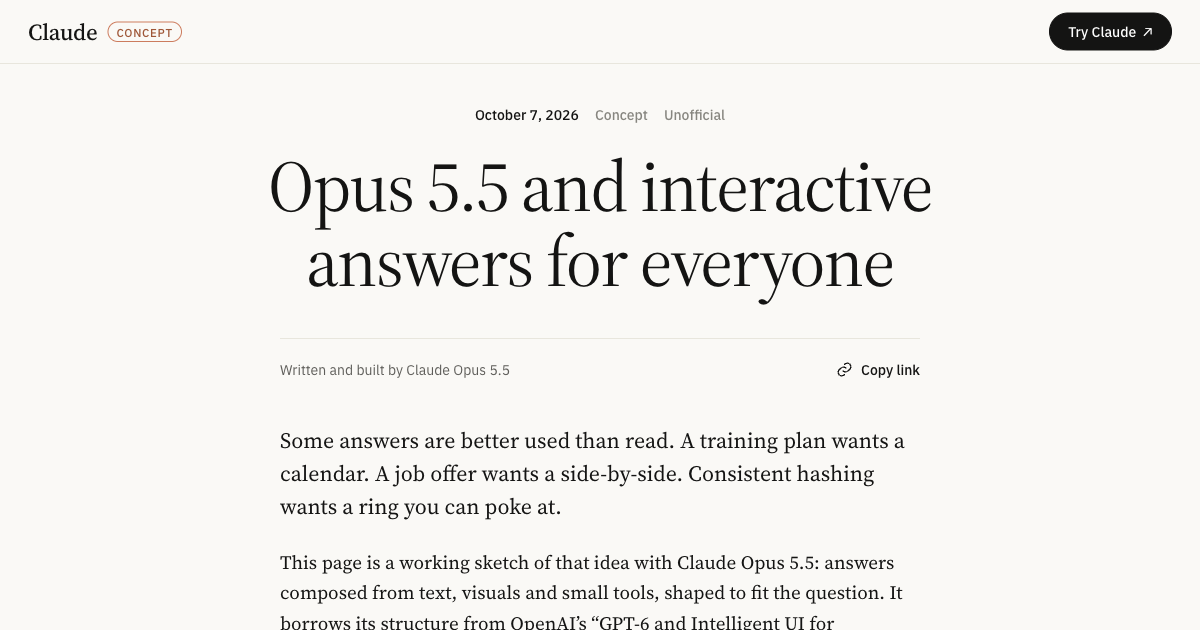
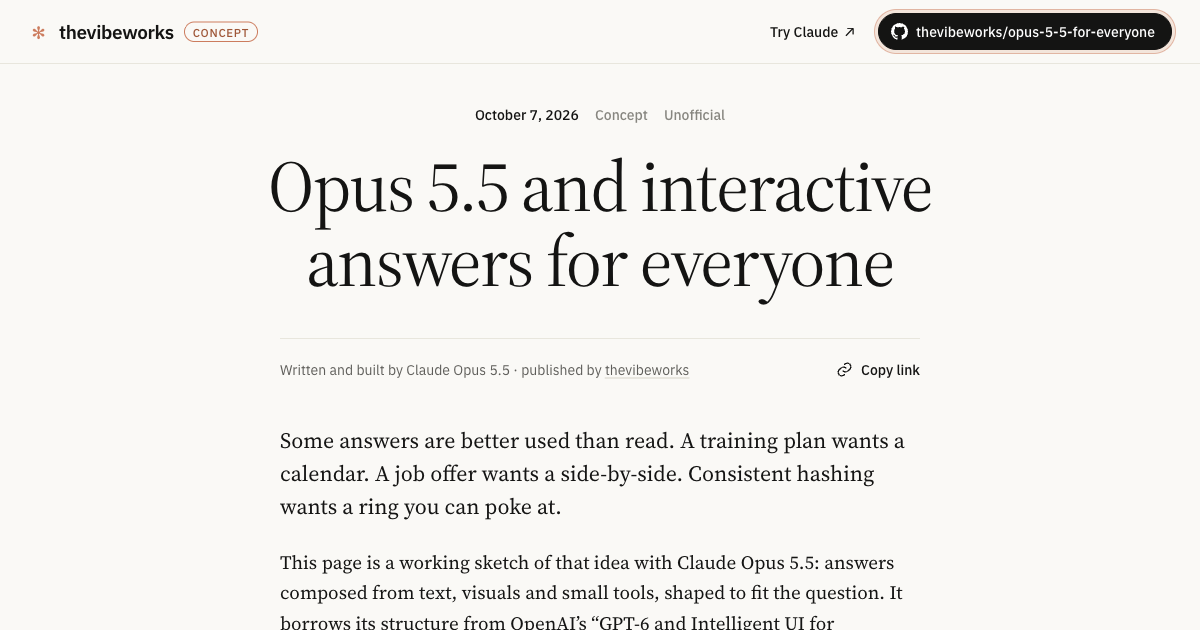
Make it thevibeworks: masthead, GitHub button, status line, project cards, sticker
The page now wears the publisher it ships under. The top bar carries a
thevibeworks wordmark, a highlighted link to the source, and a Claude
Code style status line that reads along with you: spinner, a verb per
section, seconds on page, tokens read, and an Esc that really does
interrupt it. Before the footer, terminal-window cards point to six
thevibeworks projects using their own descriptions, and the Opus 5.5
cursor drags a "Star it on GitHub" sticker into place.

Changed region(s): [[0.6475, 0.0, 0.9867, 0.0905], [0.0, 0.0302, 0.2158, 0.0603], [0.4317, 0.573, 0.5858, 0.6032]]

diff --git a/site/index.html b/site/index.html
@@ -24,11 +24,16 @@
 <a class="skip" href="#main">Skip to main content</a>
 
 <header class="topbar">
-  <a class="brand" href="#top" aria-label="Back to top">
-    <span class="brand-word">Claude</span>
+  <a class="brand" href="#top" aria-label="thevibeworks, back to top">
+    <span class="brand-glyph" aria-hidden="true">✻</span>
+    <span class="brand-word">thevibeworks</span>
     <span class="brand-tag">concept</span>
   </a>
-  <a class="btn btn-dark" href="https://claude.ai/" target="_blank" rel="noopener">Try Claude <span aria-hidden="true">&#8599;</span></a>
+  <div class="vibe-status" aria-hidden="true"><span class="vs-glyph" data-spin="always">✻</span><span class="vs-verb">Reading…</span><span class="vs-meta"></span></div>
+  <div class="top-actions">
+    <a class="btn btn-ghost top-try" href="https://claude.ai/" target="_blank" rel="noopener">Try Claude <span aria-hidden="true">&#8599;</span></a>
+    <a class="btn btn-gh" href="https://github.com/thevibeworks/opus-5-5-for-everyone" target="_blank" rel="noopener"><svg class="gh-mark" viewBox="0 0 16 16" aria-hidden="true"><path d="M8 0C3.58 0 0 3.58 0 8c0 3.54 2.29 6.53 5.47 7.59.4.07.55-.17.55-.38 0-.19-.01-.82-.01-1.49-2.01.37-2.53-.49-2.69-.94-.09-.23-.48-.94-.82-1.13-.28-.15-.68-.52-.01-.53.63-.01 1.08.58 1.23.82.72 1.21 1.87.87 2.33.66.07-.52.28-.87.51-1.07-1.78-.2-3.64-.89-3.64-3.95 0-.87.31-1.59.82-2.15-.08-.2-.36-1.02.08-2.12 0 0 .67-.21 2.2.82.64-.18 1.32-.27 2-.27.68 0 1.36.09 2 .27 1.53-1.04 2.2-.82 2.2-.82.44 1.1.16 1.92.08 2.12.51.56.82 1.27.82 2.15 0 3.07-1.87 3.75-3.65 3.95.29.25.54.73.54 1.48 0 1.07-.01 1.93-.01 2.2 0 .21.15.46.55.38A8.013 8.013 0 0 0 16 8c0-4.42-3.58-8-8-8z"/></svg><span class="gh-long">thevibeworks/opus-5-5-for-everyone</span><span class="gh-short">GitHub</span></a>
+  </div>
 </header>
 
 <nav class="toc" aria-label="On this page">
@@ -57,7 +62,7 @@
   </header>
 
   <div class="post-tools">
-    <span class="byline">Written and built by Claude Opus 5.5</span>
+    <span class="byline">Written and built by Claude Opus 5.5 · published by <a href="https://github.com/thevibeworks" target="_blank" rel="noopener">thevibeworks</a></span>
     <button class="share" type="button" data-share>
       <svg viewBox="0 0 24 24" aria-hidden="true"><path d="M10 14a5 5 0 0 0 7 0l3-3a5 5 0 0 0-7-7l-1 1M14 10a5 5 0 0 0-7 0l-3 3a5 5 0 0 0 7 7l1-1"/></svg>
       <span data-share-label>Copy link</span>
@@ -326,19 +331,81 @@
 
   <h2 id="about">About this page</h2>
   <p>This is an unofficial concept demo, not an Anthropic announcement. It makes no claims about availability, pricing, user numbers or benchmarks. Its layout follows OpenAI’s <a href="https://openai.com/index/gpt-6-for-everyone/" target="_blank" rel="noopener">“GPT‑6 and Intelligent UI for everyone”</a> (October 7, 2026); all text, illustrations and interactives here are original.</p>
-  <p>Built by Claude Opus 5.5 (<code>claude-opus-5-5</code>) in Claude Code, working with a human collaborator. The source is on <a href="https://github.com/thevibeworks/opus-5-5-for-everyone" target="_blank" rel="noopener">GitHub</a>; the page is served from GitHub Pages.</p>
+  <p>Built by Claude Opus 5.5 (<code>claude-opus-5-5</code>) in Claude Code, running inside a <a href="https://github.com/thevibeworks/deva" target="_blank" rel="noopener">deva</a> container, with a human collaborator at thevibeworks. The source is on <a href="https://github.com/thevibeworks/opus-5-5-for-everyone" target="_blank" rel="noopener">GitHub</a>; the page is served from GitHub Pages.</p>
 
   <h2 id="next">What comes next</h2>
   <p>For decades, using a computer has meant learning someone else’s interface: where the menus are, which screen hides the setting, what the button is called.</p>
   <p>Answers that arrive as interfaces turn that around a little. You describe what you are trying to do, and what comes back is something you can use, shaped around your numbers, your plan and your question.</p>
   <p data-cua="move" data-from="56,40,2">The goal isn’t more UI. It is less distance between understanding something and acting on it.</p>
 
+  <section class="more wide" aria-labelledby="more">
+    <div class="more-head">
+      <h2 id="more">More from thevibeworks</h2>
+      <a class="more-all" href="https://github.com/thevibeworks" target="_blank" rel="noopener">All projects <span aria-hidden="true">&#8599;</span></a>
+    </div>
+    <p class="more-lead">Small, sharp tools for people who live with coding agents.</p>
+    <div class="vw-grid">
+      <a class="vw-card" href="https://github.com/thevibeworks/deva" target="_blank" rel="noopener">
+        <span class="vw-bar" aria-hidden="true"><i></i><i></i><i></i><span>~/thevibeworks/deva</span></span>
+        <span class="vw-body">
+          <span class="vw-name">deva</span>
+          <span class="vw-desc">Run the official Claude Code, Codex, Gemini, Grok and Kimi CLIs at full speed inside Docker. The container is the sandbox; mounts are the contract.</span>
+          <span class="vw-note">This page was built inside one.</span>
+        </span>
+        <span class="vw-spin" aria-hidden="true"><span data-spin="hover">✻</span> Containerizing… <em>(esc to interrupt)</em></span>
+      </a>
+      <a class="vw-card" href="https://github.com/thevibeworks/cctrace" target="_blank" rel="noopener">
+        <span class="vw-bar" aria-hidden="true"><i></i><i></i><i></i><span>~/thevibeworks/cctrace</span></span>
+        <span class="vw-body">
+          <span class="vw-name">cctrace</span>
+          <span class="vw-desc">See exactly what your coding agent does on the wire: a TLS-intercepting tracer with session replay and per-turn cost, cache and latency.</span>
+        </span>
+        <span class="vw-spin" aria-hidden="true"><span data-spin="hover">✻</span> Sniffing packets… <em>(esc to interrupt)</em></span>
+      </a>
+      <a class="vw-card" href="https://github.com/thevibeworks/claude-code-statusline" target="_blank" rel="noopener">
+        <span class="vw-bar" aria-hidden="true"><i></i><i></i><i></i><span>~/thevibeworks/claude-code-statusline</span></span>
+        <span class="vw-body">
+          <span class="vw-name">claude-code-statusline</span>
+          <span class="vw-desc">Live quota, reset countdowns, context usage, model, cost and git activity, right in Claude Code’s status line.</span>
+          <span class="vw-note">This page’s reading status line is a nod to it.</span>
+        </span>
+        <span class="vw-spin" aria-hidden="true"><span data-spin="hover">✻</span> Counting tokens… <em>(esc to interrupt)</em></span>
+      </a>
+      <a class="vw-card" href="https://github.com/thevibeworks/deadman" target="_blank" rel="noopener">
+        <span class="vw-bar" aria-hidden="true"><i></i><i></i><i></i><span>~/thevibeworks/deadman</span></span>
+        <span class="vw-body">
+          <span class="vw-name">deadman</span>
+          <span class="vw-desc">A dead man’s switch for Claude Code: it writes the handoff before your prompt cache dies.</span>
+        </span>
+        <span class="vw-spin" aria-hidden="true"><span data-spin="hover">✻</span> Writing the handoff… <em>(esc to interrupt)</em></span>
+      </a>
+      <a class="vw-card" href="https://github.com/thevibeworks/claude-reads-hn" target="_blank" rel="noopener">
+        <span class="vw-bar" aria-hidden="true"><i></i><i></i><i></i><span>~/thevibeworks/claude-reads-hn</span></span>
+        <span class="vw-body">
+          <span class="vw-name">claude-reads-hn</span>
+          <span class="vw-desc">Claude reads Hacker News four times a day and writes spicy digests.</span>
+        </span>
+        <span class="vw-spin" aria-hidden="true"><span data-spin="hover">✻</span> Reading HN… <em>(esc to interrupt)</em></span>
+      </a>
+      <a class="vw-card" href="https://github.com/thevibeworks/claude-code-docs" target="_blank" rel="noopener">
+        <span class="vw-bar" aria-hidden="true"><i></i><i></i><i></i><span>~/thevibeworks/claude-code-docs</span></span>
+        <span class="vw-body">
+          <span class="vw-name">claude-code-docs</span>
+          <span class="vw-desc">Everything Anthropic ships for builders, archived and updated four times a day: API, Claude Code, MCP, cookbooks, skills.</span>
+        </span>
+        <span class="vw-spin" aria-hidden="true"><span data-spin="hover">✻</span> Archiving… <em>(esc to interrupt)</em></span>
+      </a>
+    </div>
+  </section>
+
+  <p class="sticker-row"><a class="sticker" data-cua="move" data-from="-170,54,-20" data-verb="sticking" href="https://github.com/thevibeworks/opus-5-5-for-everyone" target="_blank" rel="noopener"><span class="sticker-face"><svg class="gh-mark" viewBox="0 0 16 16" aria-hidden="true"><path d="M8 0C3.58 0 0 3.58 0 8c0 3.54 2.29 6.53 5.47 7.59.4.07.55-.17.55-.38 0-.19-.01-.82-.01-1.49-2.01.37-2.53-.49-2.69-.94-.09-.23-.48-.94-.82-1.13-.28-.15-.68-.52-.01-.53.63-.01 1.08.58 1.23.82.72 1.21 1.87.87 2.33.66.07-.52.28-.87.51-1.07-1.78-.2-3.64-.89-3.64-3.95 0-.87.31-1.59.82-2.15-.08-.2-.36-1.02.08-2.12 0 0 .67-.21 2.2.82.64-.18 1.32-.27 2-.27.68 0 1.36.09 2 .27 1.53-1.04 2.2-.82 2.2-.82.44 1.1.16 1.92.08 2.12.51.56.82 1.27.82 2.15 0 3.07-1.87 3.75-3.65 3.95.29.25.54.73.54 1.48 0 1.07-.01 1.93-.01 2.2 0 .21.15.46.55.38A8.013 8.013 0 0 0 16 8c0-4.42-3.58-8-8-8z"/></svg><span class="sticker-text"><b>Star it on GitHub</b><small>thevibeworks/opus-5-5-for-everyone</small></span><span class="sticker-star" aria-hidden="true">★</span></span></a></p>
+
 </article>
 </main>
 
 <footer class="site-foot">
-  <p>Unofficial concept demo. Not affiliated with or endorsed by Anthropic or OpenAI.</p>
-  <p>Built by Claude Opus 5.5 &middot; 2026</p>
+  <p><a class="foot-brand" href="https://github.com/thevibeworks" target="_blank" rel="noopener"><span data-spin="hover" aria-hidden="true">✻</span> thevibeworks</a> · Unofficial concept demo. Not affiliated with or endorsed by Anthropic or OpenAI.</p>
+  <p>Built by Claude Opus 5.5 · <a href="https://github.com/thevibeworks/opus-5-5-for-everyone" target="_blank" rel="noopener">source</a></p>
 </footer>
 </body>
 </html>

diff --git a/site/styles.css b/site/styles.css
@@ -63,7 +63,8 @@ button { cursor: pointer; }
 }
 .topbar.scrolled { border-bottom-color: var(--line); }
 .brand { display: inline-flex; align-items: center; gap: 10px; text-decoration: none; }
-.brand-word { font: 500 23px/1 var(--serif); letter-spacing: -0.01em; }
+.brand-glyph { font: 400 21px/1 var(--mono); color: var(--clay); width: 1em; text-align: center; }
+.brand-word { font: 600 19px/1 var(--sans); letter-spacing: -0.02em; }
 .brand-tag { font: 500 11.5px/1 var(--sans); letter-spacing: .06em; text-transform: uppercase; color: var(--clay-ink); border: 1px solid var(--clay); border-radius: 999px; padding: 4px 8px 3px; }
 
 .btn {
@@ -76,6 +77,15 @@ button { cursor: pointer; }
 .btn:hover { border-color: var(--ink-3); }
 .btn-dark { background: var(--ink); color: #fff; border-color: var(--ink); border-radius: 999px; padding: 11px 18px; }
 .btn-dark:hover { background: #2b2a27; }
+.top-actions { display: flex; align-items: center; gap: 8px; }
+.btn-ghost { border-color: transparent; background: none; }
+.btn-ghost:hover { border-color: var(--line-2); }
+.btn-gh { background: var(--ink); color: #fff; border-color: var(--ink); border-radius: 999px; padding: 9px 16px 9px 12px; gap: 8px; box-shadow: 0 0 0 3px var(--clay-tint), 0 0 0 4px rgba(217, 119, 87, .55); transition: box-shadow .2s, transform .2s; }
+.btn-gh:hover { transform: translateY(-1px); box-shadow: 0 0 0 4px var(--clay-tint), 0 0 0 5px var(--clay), 0 6px 16px rgba(169, 81, 47, .22); }
+.gh-mark { width: 17px; height: 17px; fill: currentColor; flex: none; }
+.gh-short { display: none; }
+@media (max-width: 1100px) { .gh-long { display: none; } .gh-short { display: inline; } }
+@media (max-width: 640px) { .top-try { display: none; } }
 .btn-sm { padding: 7px 11px; font-size: 13px; border-radius: 8px; }
 
 /* ---------- table of contents ---------- */
@@ -113,8 +123,8 @@ h3 { font: 500 26px/1.25 var(--serif); letter-spacing: -0.008em; margin: 80px 0 
 .post > p.lead { font-size: 22px; line-height: 1.5; }
 .post > ul { margin: 0 0 1.1em; }
 
-.post-tools { display: flex; align-items: center; justify-content: space-between; border-top: 1px solid var(--line); padding: 16px 0 0; margin: 0 0 40px; font: 400 14px/1 var(--sans); color: var(--ink-2); }
-.share { display: inline-flex; align-items: center; gap: 8px; background: none; border: 0; padding: 6px 0; font: 500 14px/1 var(--sans); color: var(--ink); }
+.post-tools { display: flex; align-items: center; justify-content: space-between; gap: 16px; border-top: 1px solid var(--line); padding: 16px 0 0; margin: 0 0 40px; font: 400 14px/1 var(--sans); color: var(--ink-2); }
+.share { flex: none; white-space: nowrap; display: inline-flex; align-items: center; gap: 8px; background: none; border: 0; padding: 6px 0; font: 500 14px/1 var(--sans); color: var(--ink); }
 .share svg { width: 17px; height: 17px; fill: none; stroke: currentColor; stroke-width: 1.8; stroke-linecap: round; }
 
 /* ---------- chat primitives ---------- */
@@ -455,6 +465,54 @@ svg text { font-family: var(--sans); }
 .stream-body p { margin: 0 0 10px; animation: fade-in .3s ease both; }
 .stream-body .first { display: inline-block; font: 600 11.5px/1 var(--sans); color: var(--clay-ink); background: var(--clay-tint); border-radius: 999px; padding: 4px 8px; margin-bottom: 10px; }
 @media (max-width: 860px) { .stream-cols { grid-template-columns: 1fr; } .stream-card { min-height: 0; } }
+
+/* ---------- more from thevibeworks ---------- */
+.more { margin-top: 120px; }
+.more-head { display: flex; align-items: baseline; justify-content: space-between; gap: 16px; flex-wrap: wrap; }
+.more-head h2 { margin: 0; }
+.more-all { font: 500 14px/1 var(--sans); text-decoration: none; color: var(--ink-2); }
+.more-all:hover { color: var(--ink); }
+.more-lead { margin: 10px 0 26px; color: var(--ink-2); }
+.vw-grid { display: grid; grid-template-columns: repeat(3, minmax(0, 1fr)); gap: 16px; }
+@media (max-width: 960px) { .vw-grid { grid-template-columns: repeat(2, minmax(0, 1fr)); } }
+@media (max-width: 600px) { .vw-grid { grid-template-columns: 1fr; } }
+.vw-card { display: flex; flex-direction: column; background: #1f1e1b; color: #e9e6dc; border: 1px solid #1f1e1b; border-radius: 14px; overflow: hidden; text-decoration: none; transition: transform .2s ease, box-shadow .2s ease, border-color .2s; }
+.vw-card:hover, .vw-card:focus-visible { transform: translateY(-3px) rotate(-.3deg); border-color: var(--clay); box-shadow: 0 14px 30px rgba(20, 20, 19, .18); }
+.vw-bar { display: flex; align-items: center; gap: 6px; padding: 10px 12px; background: #2a2926; font: 400 11.5px/1 var(--mono); color: #9b968a; }
+.vw-bar i { width: 9px; height: 9px; border-radius: 50%; background: #4a4843; }
+.vw-card:hover .vw-bar i:nth-child(1) { background: #e0715a; }
+.vw-card:hover .vw-bar i:nth-child(2) { background: #e2b552; }
+.vw-card:hover .vw-bar i:nth-child(3) { background: #7fae6c; }
+.vw-bar span { margin-left: 6px; overflow: hidden; text-overflow: ellipsis; white-space: nowrap; }
+.vw-body { display: flex; flex-direction: column; gap: 8px; padding: 16px 16px 6px; flex: 1; }
+.vw-name { font: 500 16px/1.2 var(--mono); color: #f2a385; }
+.vw-desc { font: 400 14px/1.55 var(--sans); color: #d6d2c6; }
+.vw-note { font: 500 12.5px/1.4 var(--sans); color: #faf9f5; background: rgba(217, 119, 87, .22); border-radius: 6px; padding: 5px 8px; width: fit-content; }
+.vw-spin { padding: 10px 16px 14px; font: 400 12px/1.2 var(--mono); color: var(--clay); }
+.vw-spin em { font-style: normal; color: #7c786d; }
+
+.sticker-row { text-align: center; margin: 72px 0 0 !important; }
+.sticker { text-decoration: none; }
+.sticker-face { display: inline-flex; align-items: center; gap: 12px; padding: 13px 20px 13px 16px; background: var(--clay); color: #fff; border: 4px solid #fff; border-radius: 20px; box-shadow: 0 0 0 1px rgba(20, 20, 19, .08), 0 12px 26px rgba(120, 60, 30, .26); transform: rotate(-4deg); transition: transform .25s ease, box-shadow .25s ease; text-align: left; }
+.sticker:hover .sticker-face, .sticker:focus-visible .sticker-face { transform: rotate(-1deg) scale(1.04); box-shadow: 0 0 0 1px rgba(20, 20, 19, .08), 0 18px 34px rgba(120, 60, 30, .3); }
+.sticker .gh-mark { width: 28px; height: 28px; }
+.sticker-text { display: flex; flex-direction: column; gap: 3px; }
+.sticker-text b { font: 600 17px/1.1 var(--sans); }
+.sticker-text small { font: 400 11.5px/1.1 var(--mono); opacity: .88; }
+.sticker-star { font-size: 22px; line-height: 1; transition: transform .5s ease; }
+.sticker:hover .sticker-star { transform: rotate(144deg) scale(1.15); }
+
+/* ---------- claude-code style status line ---------- */
+.vibe-status { flex: 1; min-width: 0; display: flex; justify-content: center; align-items: baseline; gap: 7px; margin: 0 20px; font: 400 12px/1 var(--mono); color: var(--ink-3); white-space: nowrap; overflow: hidden; opacity: 0; transform: translateY(-4px); transition: opacity .35s, transform .35s; }
+.vibe-status.show { opacity: 1; transform: none; }
+.vs-glyph { color: var(--clay); width: 1em; text-align: center; font-size: 13px; }
+.vs-verb { color: var(--ink); font-weight: 500; }
+.vs-meta { overflow: hidden; text-overflow: ellipsis; }
+.vibe-status.interrupted .vs-verb { color: var(--clay-ink); }
+@media (max-width: 900px) { .vibe-status { visibility: hidden; } }
+
+.foot-brand { text-decoration: none; color: var(--ink-2); font-weight: 500; }
+.foot-brand span { color: var(--clay); }
 
 /* ---------- agent cursor ---------- */
 .post { overflow-x: clip; }

diff --git a/site/app.js b/site/app.js
@@ -1366,7 +1366,7 @@
       host.classList.add('cua-host');
       const under = layer('cua-under'), over = layer('cua-over');
       const cursor = layer('cua-cursor');
-      cursor.innerHTML = `<span class="cua-ring"></span>${POINTER}${IBEAM}<span class="cua-tag" data-name="Opus 5.5"><span class="cua-verb" data-verb=" · ${VERBS[kind]}"></span></span>`;
+      cursor.innerHTML = `<span class="cua-ring"></span>${POINTER}${IBEAM}<span class="cua-tag" data-name="Opus 5.5"><span class="cua-verb" data-verb=" · ${node.dataset.verb || VERBS[kind]}"></span></span>`;
       over.appendChild(cursor);
       host.append(under, over);
       const it = { kind, host, el, under, over, cursor, ring: $('.cua-ring', cursor), p: -1 };
@@ -1498,9 +1498,80 @@
     update(true);
   }
 
+  // ---------- thevibeworks: Claude Code style spinners and a status line that reads along ----------
+  function vibes() {
+    const FRAMES = ['·', '✢', '✳', '✶', '✻', '✽', '✻', '✶', '✳', '✢'];
+    const spins = $$('[data-spin]');
+    const pill = $('.vibe-status');
+    const verbEl = $('.vs-verb', pill), meta = $('.vs-meta', pill);
+    const glyph = $('.vs-glyph', pill);
+    const SECTIONS = [['top', 'Reading'], ['hero-demo', 'Exploding'], ['interactive-answers', 'Noodling'], ['everyday', 'Planning'],
+      ['learn', 'Pondering'], ['build', 'Tinkering'], ['how-it-works', 'Cogitating'], ['sooner', 'Streaming'], ['safety', 'Sandboxing'],
+      ['about', 'Fact-checking'], ['next', 'Vibing'], ['more', 'Browsing']]
+      .map(([id, v]) => [document.getElementById(id), v]).filter(([el]) => el);
+    const blocks = $$('.post p, .post h1, .post h2, .post h3, .post li, .msg-user')
+      .map((el) => ({ el, words: (el.textContent.match(/\S+/g) || []).length }));
+    const t0 = performance.now();
+    const fmtTok = (n) => (n >= 1000 ? `${(n / 1000).toFixed(1)}k` : String(n));
+    let tokens = 0, verb = 'Reading', frame = 0, nearTop = true, interrupted = false;
+
+    const set = (el, text) => { if (el.textContent !== text) el.textContent = text; };
+    const render = () => {
+      if (interrupted) { set(verbEl, '⎿ Interrupted by user'); set(meta, '(esc to resume)'); }
+      else {
+        set(verbEl, `${verb}…`);
+        set(meta, `(${Math.floor((performance.now() - t0) / 1000)}s · ↓ ${fmtTok(tokens)} tokens · esc to interrupt)`);
+      }
+      pill.classList.toggle('interrupted', interrupted);
+      if (interrupted) set(glyph, '✻');
+      pill.classList.toggle('show', !nearTop);
+    };
+
+    // tokens "read" = words above the reading line, at roughly 1.3 tokens a word
+    let queued = false;
+    const measure = () => {
+      queued = false;
+      const line = innerHeight * 0.6;
+      let words = 0;
+      for (const b of blocks) if (b.el.offsetParent && b.el.getBoundingClientRect().top < line) words += b.words;
+      tokens = Math.round(words * 1.3);
+      verb = 'Reading';
+      for (const [el, v] of SECTIONS) if (el.getBoundingClientRect().top < line) verb = v;
+      nearTop = scrollY < 420;
+      render();
+    };
+    addEventListener('scroll', () => { if (!queued) { queued = true; requestAnimationFrame(measure); } }, { passive: true });
+    addEventListener('resize', measure);
+
+    // esc really does interrupt it, like the real thing
+    addEventListener('keydown', (e) => {
+      if (e.key !== 'Escape' || nearTop || getComputedStyle(pill).visibility === 'hidden') return;
+      if (e.target.closest && e.target.closest('input, textarea, select, canvas')) return;
+      interrupted = !interrupted;
+      render();
+    });
+
+    setInterval(() => {
+      if (document.hidden) return;
+      frame = (frame + 1) % FRAMES.length;
+      if (!reduceMotion) {
+        for (const sp of spins) {
+          const mode = sp.dataset.spin;
+          if (mode === 'always' && interrupted) continue;
+          const link = sp.closest('a');
+          const on = mode === 'always' || (link && (link.matches(':hover') || link === document.activeElement));
+          set(sp, on ? FRAMES[frame] : '✻');
+        }
+      }
+      if (!nearTop) render();
+    }, 130);
+    measure();
+  }
+
   // ---------- boot ----------
   chrome();
   agentCursor();
+  vibes();
   $$('[data-tabs]').forEach(tabs);
   const lazy = new IntersectionObserver((entries) => entries.forEach((e) => { if (e.isIntersecting) startWidget(e.target); }), { rootMargin: '600px 0px' });
   $$('[data-widget]').forEach((el) => lazy.observe(el));

diff --git a/README.md b/README.md
@@ -20,6 +20,8 @@ Every interactive was written by Claude Opus 5.5 in one Claude Code session, as 
 | Build a tool | Bill splitter (cent-exact rounding), savings calculator, brick breaker |
 | Answers that start sooner | Simulated side-by-side: think-then-answer vs answer-while-thinking |
 | Throughout | A scroll-scrubbed "Opus 5.5" cursor that marks, circles, types and drags words in the essay as you read (off with reduced motion) |
+| Top bar | A Claude Code style status line that reads along: spinner, verb per section, seconds, tokens read. Esc really interrupts it |
+| Ending | More from thevibeworks, and a sticker the cursor drags in |
 
 ## Layout
 
